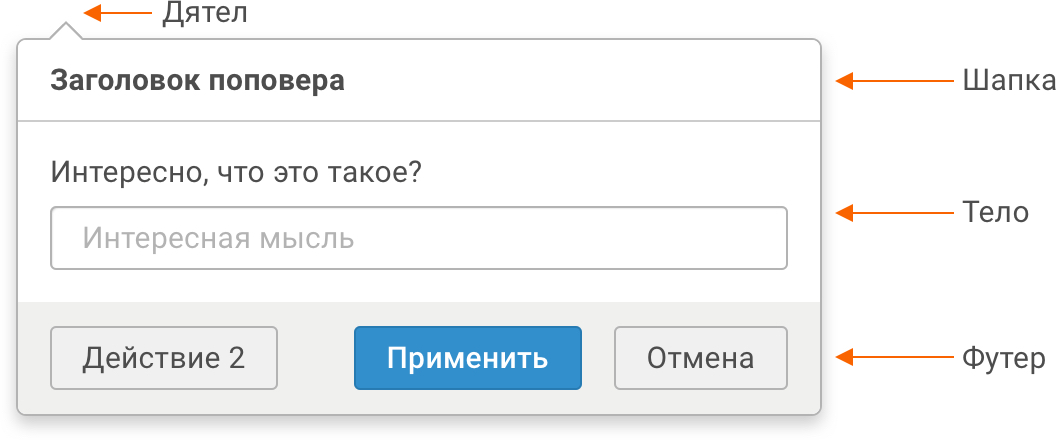
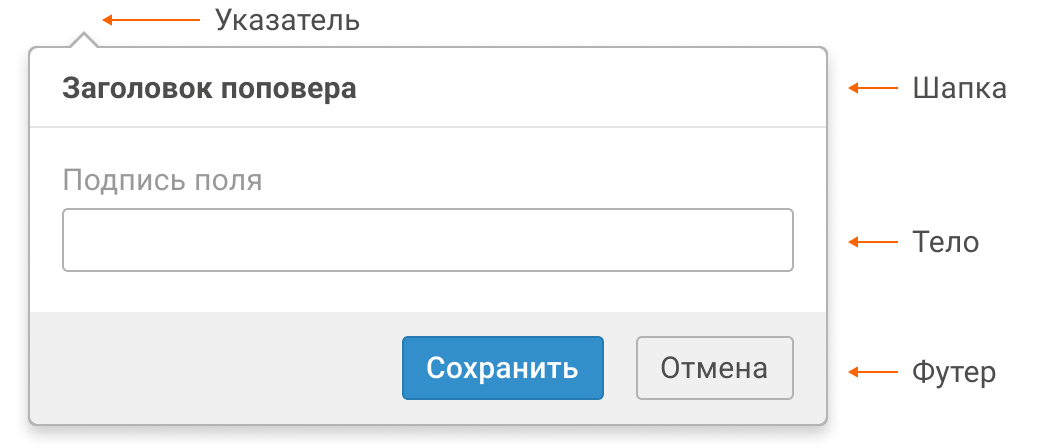
Убрал слово дятел

Changed region(s): [[0.0, 0.0, 1.0, 0.975], [0.7812, 0.1477, 1.0, 0.2364]]

diff --git a/packages/mosaic/popover/popover.md b/packages/mosaic/popover/popover.md
@@ -15,7 +15,7 @@
 
 #### Обязательные элементы
 
-* Указатель фона - дятел,
+* Указатель,
 * Тело поповера с основным текстом.
 
 #### Необязательные элементы
@@ -77,13 +77,13 @@
 
 ##### По центру элемента
 
-Дятел по центру поповера, целится в центр тригерного элемента.
+Указатель по центру поповера, целится в центр тригерного элемента.
 
 <!-- example(popover-placement-center) -->
 
 ##### По краю элемента
 
-Край поповера выравнивается по краю тригерного элемента, дятел на фиксированном расстоянии от края поповера. Если элемент слишком маленький, дятел выровняется по центру элемента.
+Край поповера выравнивается по краю тригерного элемента, указатель на фиксированном расстоянии от края поповера. Если элемент слишком маленький, указатель выровняется по центру элемента.
 
 <!-- example(popover-placement-edges) -->
 
